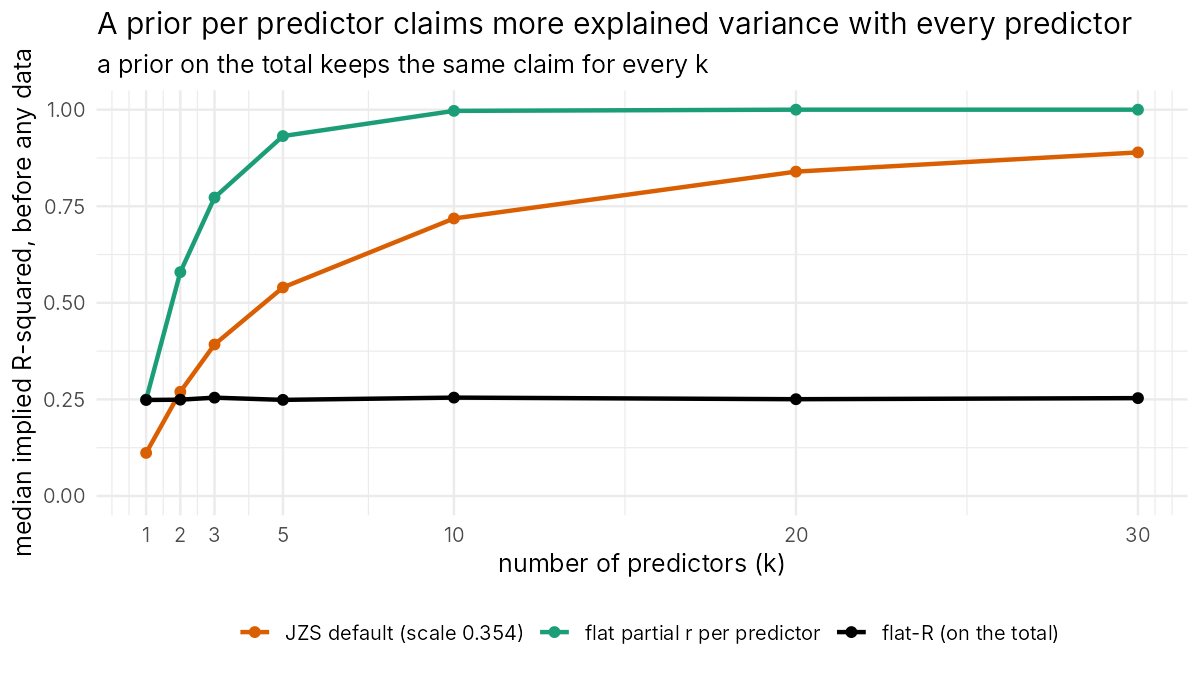
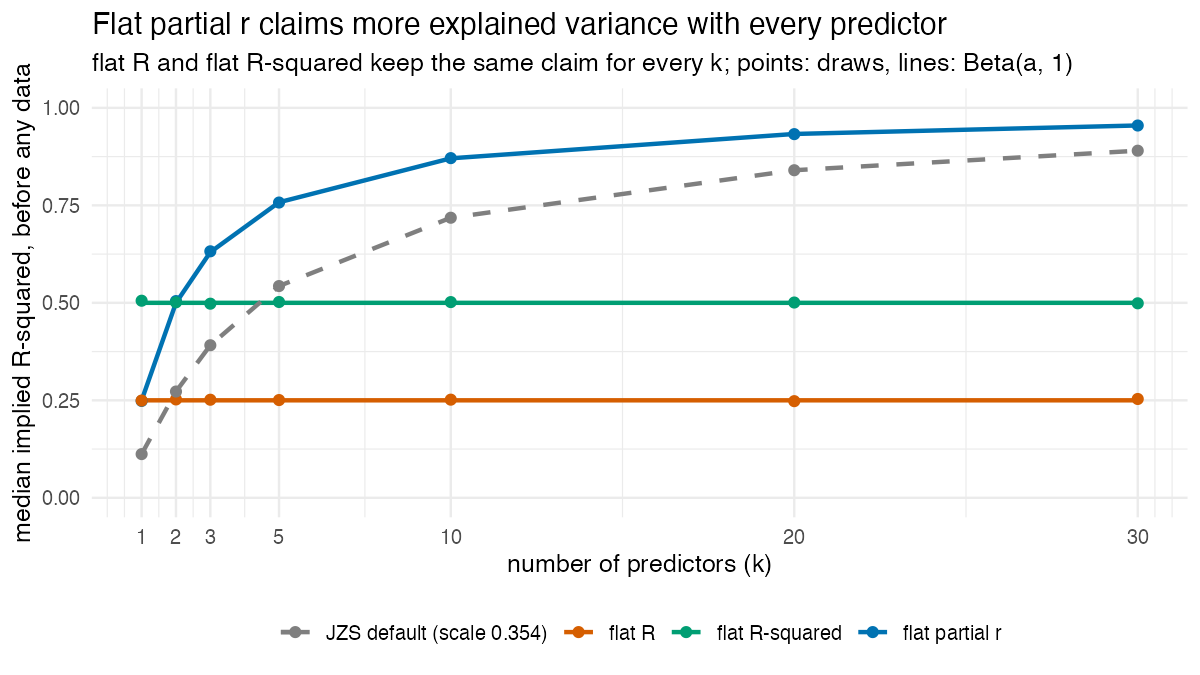
Docs and cleanup for the three priors (results pending the rerun)
- docs rewritten around study 00 and the three branches; 4_why_this_default
  becomes 4_comparison (results and recommendation follow the rerun)
- README, DESCRIPTION, vignette and figures for three priors, no default
- archive/ removed (in git history up to 703d9c4)

diff --git a/docs/relation_to_others.md b/docs/relation_to_others.md
@@ -1,26 +1,32 @@
 # Relation to other priors
 
-**In one sentence:** the flat-R prior is a mixture of Zellner g-priors, the
-family of the JZS default, and the only member whose implied $R^2$ stays
-the same for every number of predictors *and* is Jeffreys' flat correlation for
-one predictor (constant in $k$ alone is not enough: $R^2 \sim$ Beta(½, $b$) for
-every $k$ is a g-mixture for every $b$, checked in `validation/09`, V5; see
-[`2_how_it_calculates.md`](2_how_it_calculates.md), section 8). Its closest neighbour is the other
-natural way to extend Jeffreys' flat correlation to several predictors: flat
-over all correlation matrices, which is rstanarm `stan_lm`'s $R^2$ prior with
-η = 1.
+**In one sentence:** the three priors, $R^2 \sim$ Beta($a$, 1) with a uniform
+direction, sit in the family of the JZS default (mixtures of Zellner g-priors)
+and next to rstanarm `stan_lm`: flat partial r ($a = k/2$) *is* `stan_lm`'s
+$R^2$ prior with η = 1, flat R ($a = ½$) is the only g-mixture whose implied
+$R^2$ stays the same for every $k$ *and* is Jeffreys' flat correlation for one
+predictor, and flat R-squared ($a = 1$) keeps the total flat on the $R^2$
+ruler.
+
+Constant in $k$ alone does not single out flat R: $R^2 \sim$ Beta(½, $b$) for
+every $k$ is a g-mixture for every $b$ (checked in `validation/09`, V5; see
+[`2_how_it_calculates.md`](2_how_it_calculates.md), section 8). Where the three
+come from: [`1_from_behaviour.md`](1_from_behaviour.md), step 0 (study 00).
 
 ## Its family: mixtures of g-priors
 
 Zellner–Siow (JZS, the BayesFactor/JASP default), hyper-g, hyper-g/n,
 beta-prime, robust and intrinsic priors all put a prior on Zellner's $g$. The
-flat-R prior does too, with $g/n = B \cdot W$, $B \sim$ Beta(½, (k−1)/2),
-$W \sim$ Inverse-Gamma(1, ½) ([`2_how_it_calculates.md`](2_how_it_calculates.md),
-section 8). How much $R^2$ each member claims before any data, as $k$ grows,
-is the table in that section: from 0.25 at every $k$ (flat-R) to 0.98 at
-$k = 30$ (Zellner–Siow).
+three priors do too, with $g/n = B \cdot W$, $W \sim$ Inverse-Gamma(1, ½), and
+$B \sim$ Beta($a$, $k/2 - a$): Beta(½, (k−1)/2) for flat R, Beta(1, $k/2 - 1$)
+for flat R-squared ($k \ge 3$; at $k = 2$ it is flat partial r, at $k = 1$ it
+is not a g-mixture), $B \equiv 1$ for flat partial r
+([`2_how_it_calculates.md`](2_how_it_calculates.md), section 8). How much $R^2$
+each member claims before any data, as $k$ grows, is the table in that section:
+from 0.25 at every $k$ (flat R) and 0.5 at every $k$ (flat R-squared) to 0.98
+at $k = 30$ (Zellner–Siow).
 
-The flat-R hyperprior involves Kummer's confluent hypergeometric function, so
+The flat R hyperprior involves Kummer's confluent hypergeometric function, so
 it is not a special case of the tCCH family of Li & Clyde (2018), which unifies
 hyper-g, beta-prime, robust and intrinsic priors. A search of the g-prior
 literature did not turn it up; that is a finding of a search, not a proof.
@@ -40,21 +46,24 @@ predictors are added ([`1_from_behaviour.md`](1_from_behaviour.md), step 2).
 | JZS / Zellner–Siow (BayesFactor, JASP) | yes, milder | heavy-tailed mixture over $g$, but still per-dimension |
 | spike-and-slab with a fixed slab | yes | with the number of included predictors |
 | independent flat partial correlations, combined | yes, strongly | $1 - R^2$ is a product of one factor per predictor |
-| rstanarm `stan_lm` | yes, by design | $R^2 \sim$ Beta($k/2$, η); η = 1 is "every correlation matrix equally likely" (next section) |
+| rstanarm `stan_lm`, and **flat partial r** (η = 1) | yes, by design | $R^2 \sim$ Beta($k/2$, η); η = 1 is "every correlation matrix equally likely" (next section) |
 | hyper-g (Liang et al., 2008), Maruyama & George (2011) | partly | prior on the shrinkage $g/(1+g)$ |
 | regularized horseshoe | no | global scale tied to the expected number of relevant predictors |
 | R2-D2 (Zhang et al., 2022), R2D2M2 (Aguilar & Bürkner, 2023) | no | fixed prior on $R^2$, Dirichlet split |
-| **flat-R** | no | flat on $R$ for every $k$, even split |
+| **flat R** | no | flat on $R$ for every $k$, even split |
+| **flat R-squared** | no | flat on $R^2$ for every $k$, even split |
 
-## The other extension: flat over all correlation matrices
+## Three extensions: flat on the correlations, on R, or on R²
 
-With one predictor, flat-R is Jeffreys' flat correlation. There are two natural
-ways to extend that to $k$ predictors, and they differ in one claim:
+With one predictor, Jeffreys' flat correlation is the starting point. Valid
+correlation matrices allow three ways to extend it to $k$ predictors (study 00),
+and they differ in one claim:
 
-| | what is flat | implied $R^2$ | median $R^2$, $k$ = 1 / 3 / 10 / 30 |
-|---|---|---|---|
-| **flat-R** | the total $R$, whatever $k$ is | Beta(½, 1) | 0.25 / 0.25 / 0.25 / 0.25 |
-| **uniform correlations** | every correlation matrix of $(y, x_1 \ldots x_k)$ | Beta($k/2$, 1) | 0.25 / 0.63 / 0.87 / 0.95 |
+| | what is flat | implied $R^2$ | median $R^2$, $k$ = 1 / 3 / 10 / 30 | Jeffreys at $k = 1$? |
+|---|---|---|---|---|
+| **flat partial r** | every correlation matrix of $(y, x_1 \ldots x_k)$ | Beta($k/2$, 1) | 0.25 / 0.63 / 0.87 / 0.95 | yes |
+| **flat R** | the total $R$, whatever $k$ is | Beta(½, 1) | 0.25 / 0.25 / 0.25 / 0.25 | yes |
+| **flat R-squared** | the total $R^2$, whatever $k$ is | Beta(1, 1) | 0.50 / 0.50 / 0.50 / 0.50 | no: $r$ has density $\lvert r\rvert$ |
 
 - **Where Beta($k/2$, 1) comes from.** Under the LKJ distribution with shape η
   (Lewandowski, Kurowicka & Joe, 2009; η = 1 is uniform), the squared multiple
@@ -64,17 +73,17 @@ ways to extend that to $k$ predictors, and they differ in one claim:
 - **It is rstanarm's `stan_lm` prior.** `stan_lm` uses exactly this
   construction: $\sqrt{R^2}$ times a uniformly random direction in orthogonalised
   predictor coordinates (its QR step), with $R^2 \sim$ Beta($k/2$, η) (Gabry &
-  Goodrich, rstanarm vignette). So flat-R and `stan_lm` share everything except
+  Goodrich, rstanarm vignette). So flat R and `stan_lm` share everything except
   the prior on $R^2$. But `stan_lm` has no default η: the user states where
   $R^2$ is expected, and η follows; the rstanarm documentation does not
   recommend η = 1. Why η = 1 in particular: the subsection "Why η = 1" below.
   Using it for Bayes factors is not found there. In this package:
-  `prior = "uniform_correlations"` in every function.
+  `prior = "flat_partial_r"` in every function.
 - **The same growth is forced by consistency between model sizes.** As a
   g-mixture (section 8 of [`2_how_it_calculates.md`](2_how_it_calculates.md)) it
   has $B \equiv 1$: a fixed hyperprior $g/n \sim$ Inverse-Gamma(1, ½), so the
   prior is the same scale mixture of normals for every $k$, and models of
-  different sizes agree with each other. Flat-R gives that up to keep the total
+  different sizes agree with each other. Flat R gives that up to keep the total
   fixed.
 - **Zellner–Siow is the η = ½ member.** With scale 1, $f^2 = \chi^2_k/\chi^2_1$, so
   $R^2 \sim$ Beta($k/2$, ½) exactly (the medians in the table above, 0.50 / 0.84 /
@@ -86,7 +95,7 @@ ways to extend that to $k$ predictors, and they differ in one claim:
   $k + 2$ degrees of freedom, keeps every single correlation flat for any $k$, and
   implies the same $R^2 \sim$ Beta($k/2$, 1) (simulation, KS ≤ 0.007 for $k$ =
   2–8, 40,000 draws). So "flat on the correlations", in either sense, gives
-  $a = k/2$; only "flat on the total" gives flat-R.
+  $a = k/2$; only "flat on the total" gives flat R.
 
 ### How Beta($k/2$, 1) was found: simulate, then derive, then check
 
@@ -105,8 +114,8 @@ values with the Beta distribution that a short argument predicts.
    directly. It draws **partial correlations** (= the correlation left after
    the earlier variables are taken out). These can be chosen independently
    and always give a valid matrix. Each is a Beta on (−1, 1), and they are
-   converted back into ordinary correlations: `draw_uniform_correlation_matrix()`
-   in `validation/09_variable_selection.R`.
+   converted back into ordinary correlations: `draw_lkj_correlation_matrix()`
+   in `validation/comparison_methods.R` (also used by study 00).
 3. **Compute each matrix's population $R^2$.** With $\rho$ the correlations of
    $y$ with the predictors and $\Sigma$ the correlations among the predictors:
 
@@ -134,9 +143,9 @@ reading "every single correlation flat" was checked the same way, with the
 correlations of an inverse-Wishart with $k + 2$ degrees of freedom (Barnard et
 al., 2000): the same Beta($k/2$, 1).
 
-This is the $R^2$ prior of the **uniform correlations** extension. The flat-R
-share per predictor, Beta(½, (k−1)/2), is a different result found the same way:
-[`1_from_behaviour.md`](1_from_behaviour.md), step 4.
+This is the $R^2$ prior of the **flat partial r** extension. The share per
+predictor, Beta(½, (k−1)/2) for every member of the family, is a different
+result found the same way: [`1_from_behaviour.md`](1_from_behaviour.md), step 4.
 
 ### Why η = 1
 
@@ -183,37 +192,45 @@ Give ours that extra uncertainty and the two agree to 5e-7; the priors on the
 noise and the other coefficients are the same in both. As it is, ours is lower
 on the log scale by up to 0.26 (n = 20, k = 8, r = 0), 0.10 at n = 50 and
 0.005 at n = 1000, largest at r = 0 (where ours does not depend on k).
-What uniform correlations adds is: the fixed-X version of their test, that this
+What flat partial r adds is: the fixed-X version of their test, that this
 test follows from one prior on the whole model, and that the same prior gives
 Bayes factors between whole models and estimates (`stan_lm` with η = 1).
 
-**In variable selection** (`validation/README.md`, 09) neither dominates:
-flat-R separates real from null predictors better in small samples with
-uncorrelated predictors, uniform correlations does better when predictors are
-correlated. Uniform correlations is at least as good as JZS everywhere; flat-R
-beats JZS in small uncorrelated samples and trails it slightly (AUC ≤ 0.007)
-with correlated predictors. Which extension describes
-real research better is an empirical question: how fast explained variance
-grows with the number of predictors in published regressions. Uniform
-correlations predicts a median $R^2$ of 0.76 with 5 predictors and 0.84 with 8;
-flat-R predicts 0.25 at any size.
+**In variable selection** (`validation/README.md`, 09) the three are compared
+with JZS, Zellner–Siow and BIC: (rerun pending). Which extension describes real
+research better is partly an empirical question: how fast explained variance
+grows with the number of predictors in published regressions. Flat partial r
+predicts a median $R^2$ of 0.76 with 5 predictors and 0.84 with 8; flat R
+predicts 0.25 and flat R-squared 0.5 at any size.
+
+### Flat R-squared, and the earlier "growing" experiment
+
+An earlier version of study 09 tried $R^2 \sim$ Beta($a$, 1) with
+$a = k/(k+1)$: flat R at one predictor, moving toward flat R-squared as $k$
+grows. It barely differed from flat R and was dropped. Flat R-squared is now a
+full member of the comparison instead ($a = 1$ for every $k$), built and
+checked like the other two, so that experiment is superseded. Its one
+structural difference: at $k = 1$ it is flat on $r^2$, not on $r$, so it does
+not start from Jeffreys' correlation (study 00, version C).
 
 ## The conditional Lindley paradox
 
 Priors with one scale shared by all coefficients (Zellner–Siow, hyper-g, and the
-joint tests of both flat-R and uniform correlations) let large coefficients drive
-the test of a small one toward "no effect" (Som, Hans & MacEachern, 2016). Their
-remedy, block hyper-g priors, gives groups of coefficients their own scale. The
-conditional tests do the same for one coefficient: under flat-R its own share of
-the flat total, under uniform correlations its own flat partial correlation
+joint tests of all three priors) let large coefficients drive the test of a
+small one toward "no effect" (Som, Hans & MacEachern, 2016). Their remedy,
+block hyper-g priors, gives groups of coefficients their own scale. The
+conditional tests do the same for one coefficient: under flat R and flat
+R-squared its own share of the total, under flat partial r its own flat partial
+correlation
 ([`2_how_it_calculates.md`](2_how_it_calculates.md), section 10).
 
 ## Is this just R2-D2?
 
-No. Both can start from Beta(½, 1) on $R^2$, but they turn it into
-coefficients differently, so they are different priors, even with one predictor.
+No. Both can start from Beta(½, 1) on $R^2$ (flat R), but they turn it into
+coefficients differently, so they are different priors, even with one
+predictor. The same holds for flat R-squared against R2-D2 with Beta(1, 1).
 
-| | Flat-R | R2-D2 (brms `R2D2()`) |
+| | Flat R | R2-D2 (brms `R2D2()`) |
 |---|---|---|
 | Given a drawn $R^2$ | the length of the effect is **fixed** by it; only the direction is random | $R^2$ sets the **variance** of a normal distribution for the coefficients |
 | Implied $R^2$ | follows Beta(½, 1) exactly | does **not** follow Beta(½, 1): the normal draw lands below or above it |
@@ -223,7 +240,7 @@ coefficients differently, so they are different priors, even with one predictor.
 **One predictor** (only the first difference matters). Implied prior on the
 correlation, 1,000,000 draws each:
 
-| | Flat-R | brms R2D2 with Beta(½, 1) |
+| | Flat R | brms R2D2 with Beta(½, 1) |
 |---|---|---|
 | P(\|r\| < 0.1) | 0.10 | **0.25** |
 | P(\|r\| < 0.5) | 0.50 | **0.65** |
@@ -240,7 +257,7 @@ brms's closest built-in option,
 prior(R2D2(mean_R2 = 1/3, prec_R2 = 1.5), class = b)   # Beta(1/2, 1) on R2
 ```
 
-is the different prior above. A custom brms prior can state the flat-R density,
+is the different prior above. A custom brms prior can state the flat R density,
 but brms samples the coefficients directly and misses the prior's peak at zero
 for larger $k$. That is why `fit_regression()` uses its own Stan model,
 sampled in $R$ and a direction ([`2_how_it_calculates.md`](2_how_it_calculates.md), section 6).
@@ -251,7 +268,7 @@ Reproduce the one-predictor table:
 set.seed(1)
 number_of_draws <- 1e6
 
-## Flat-R, one predictor: flat on the correlation
+## Flat R, one predictor: flat on the correlation
 correlation_flat_r <- runif(number_of_draws, min = -1, max = 1)
 
 ## brms-style R2D2, one predictor: R2 ~ Beta(1/2, 1) sets the variance
@@ -273,17 +290,17 @@ round(rbind(flat_r = summarise_correlation(correlation_flat_r),
 ## Closest relatives
 
 - Jeffreys' flat prior on a correlation; Ly, Verhagen & Wagenmakers on
-  Jeffreys' default tests: flat-R is this prior with one predictor.
+  Jeffreys' default tests: flat R is this prior with one predictor.
 - Kucharský, Wagenmakers, van den Bergh & Ly (2026), *Test*: exact Bayes factor
   for one partial correlation with a stretched-beta prior. With α = 1 it is
-  the uniform-correlations conditional test with random instead of fixed
-  predictors (`validation/05`, C8). Flat-R puts the
+  the flat partial r conditional test with random instead of fixed
+  predictors (`validation/05`, C8). Flat R puts the
   same kind of prior on the *total* instead of on each partial correlation. The
-  conditional flat-R test uses the same inputs (the sample partial correlation,
+  conditional flat R test uses the same inputs (the sample partial correlation,
   $n$ and $k$), with the prior the flat total implies for one coefficient.
 - rstanarm `stan_lm` (Gabry & Goodrich): the same construction with
   $R^2 \sim$ Beta($k/2$, η), for estimation only; with η = 1 it is the
-  "uniform correlations" extension above.
+  "flat partial r" extension above.
 
 ## References
 
